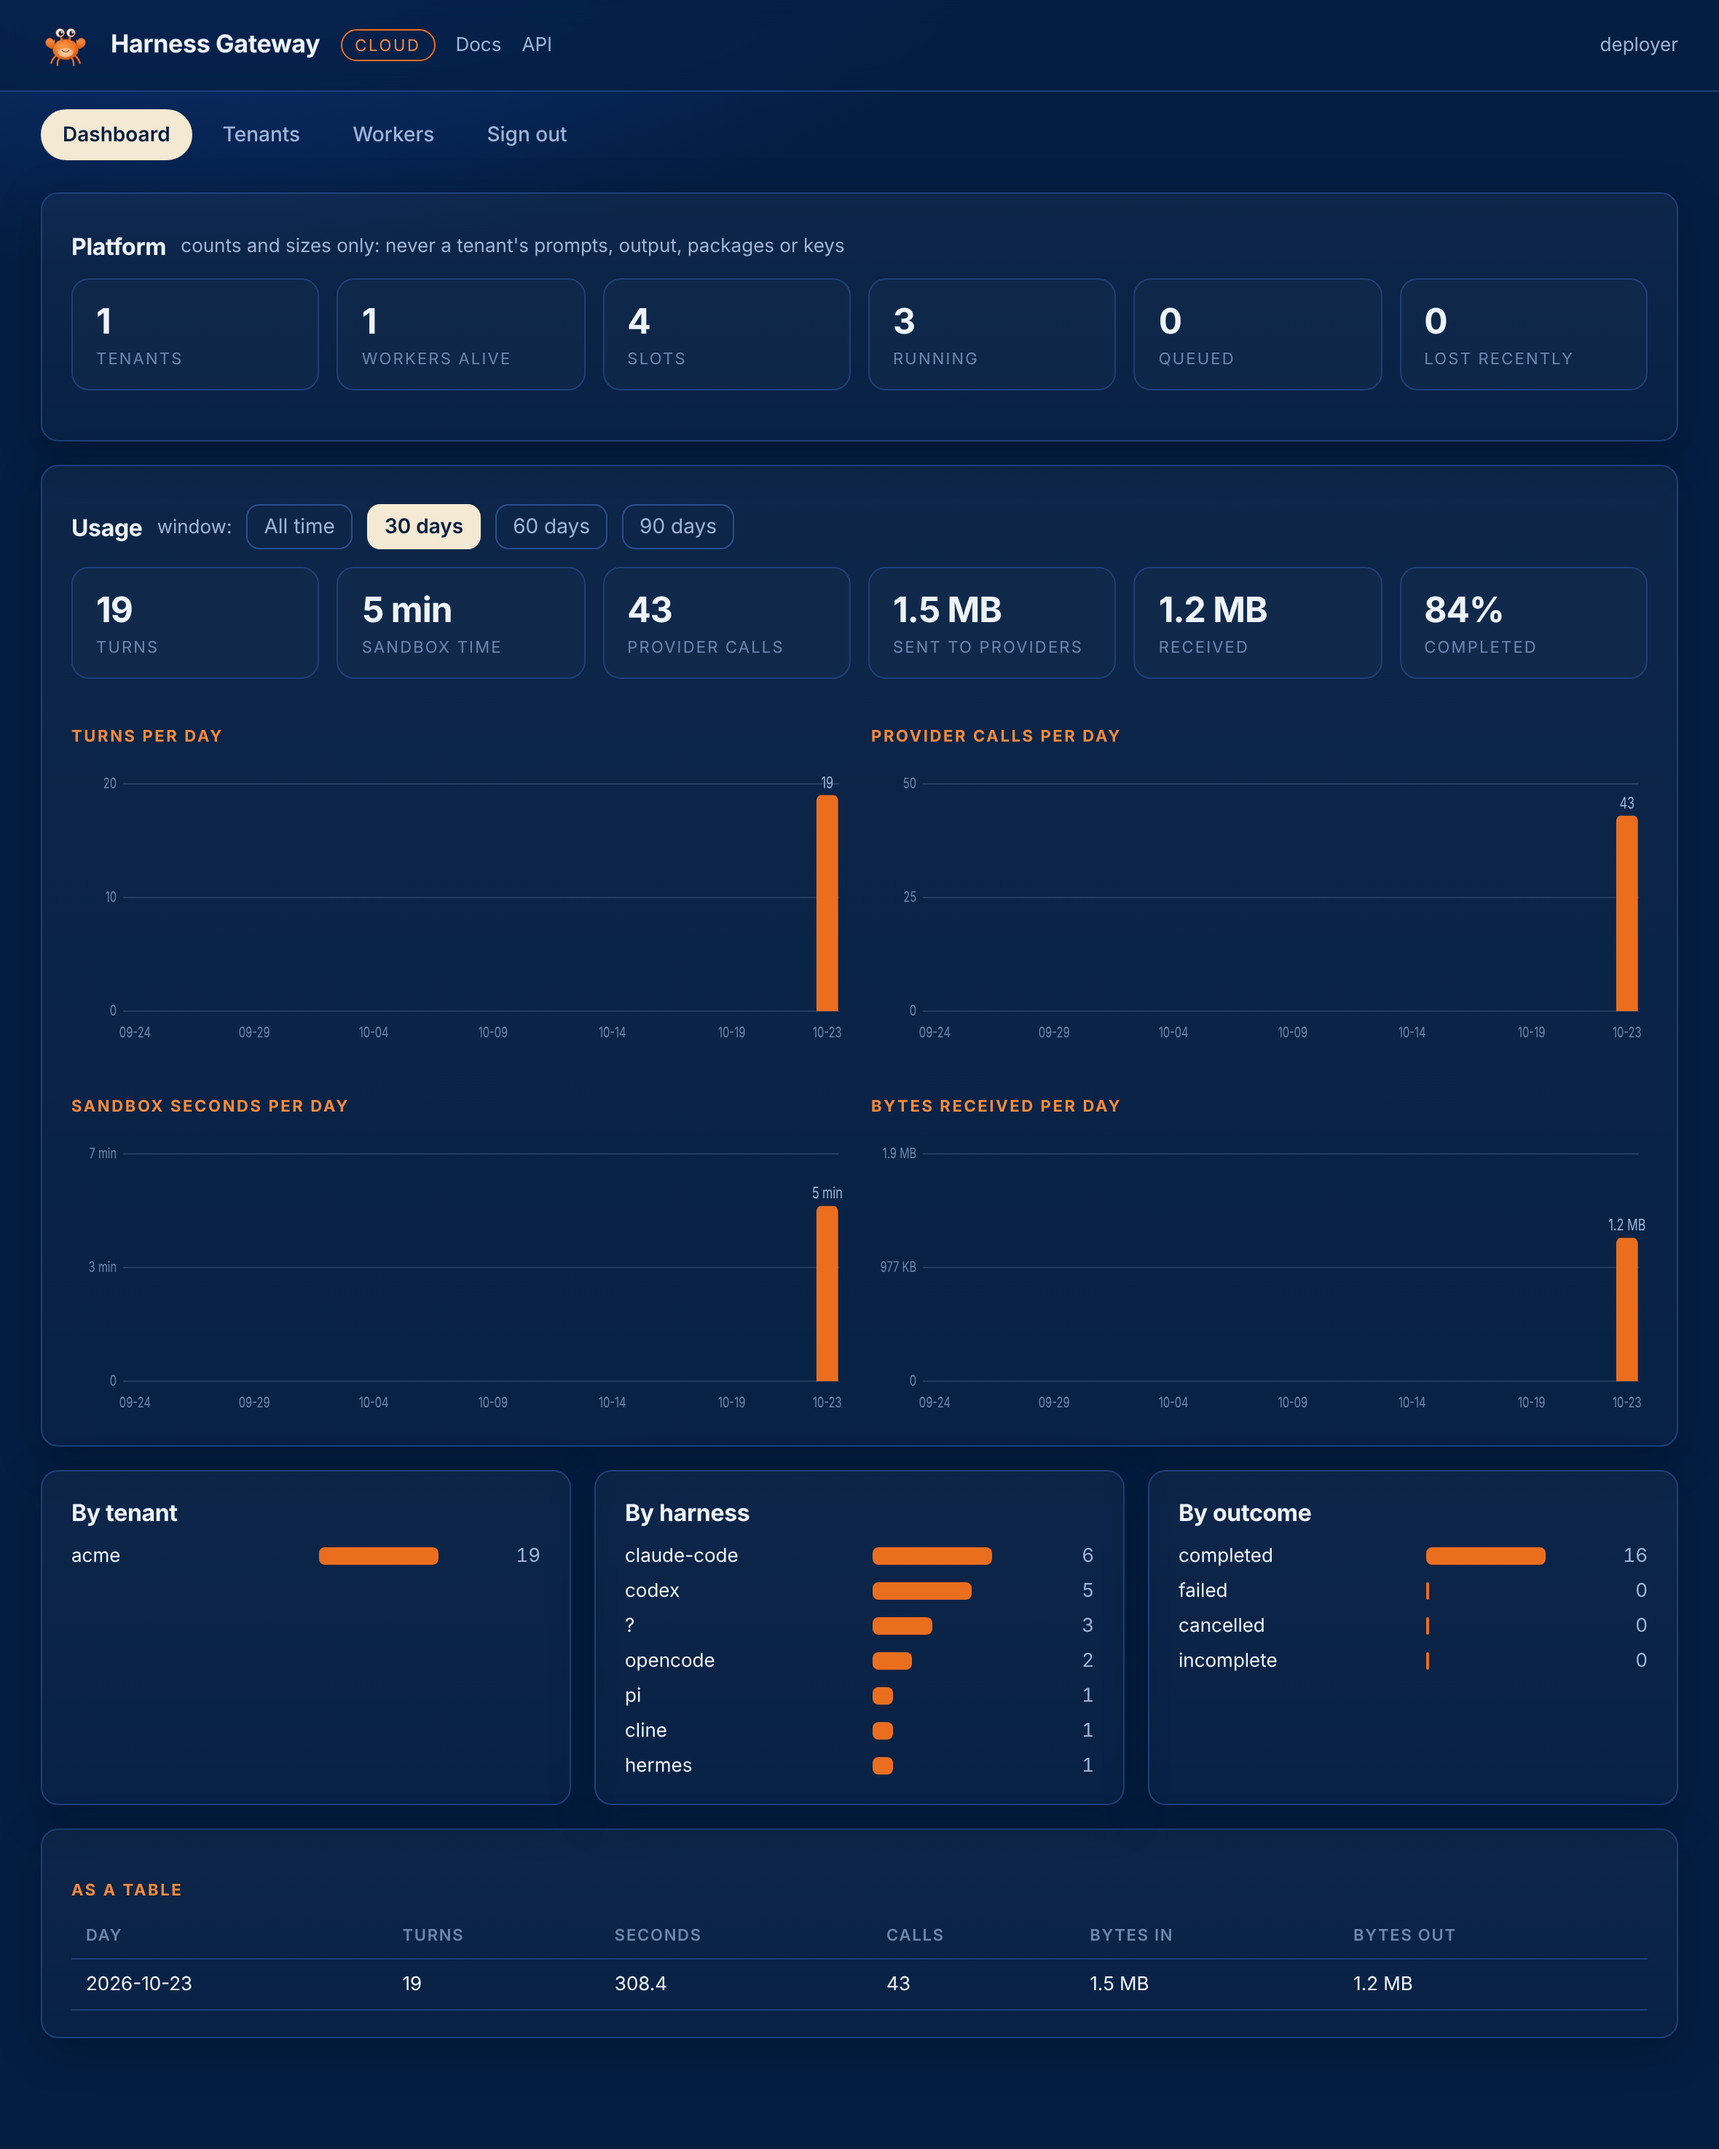
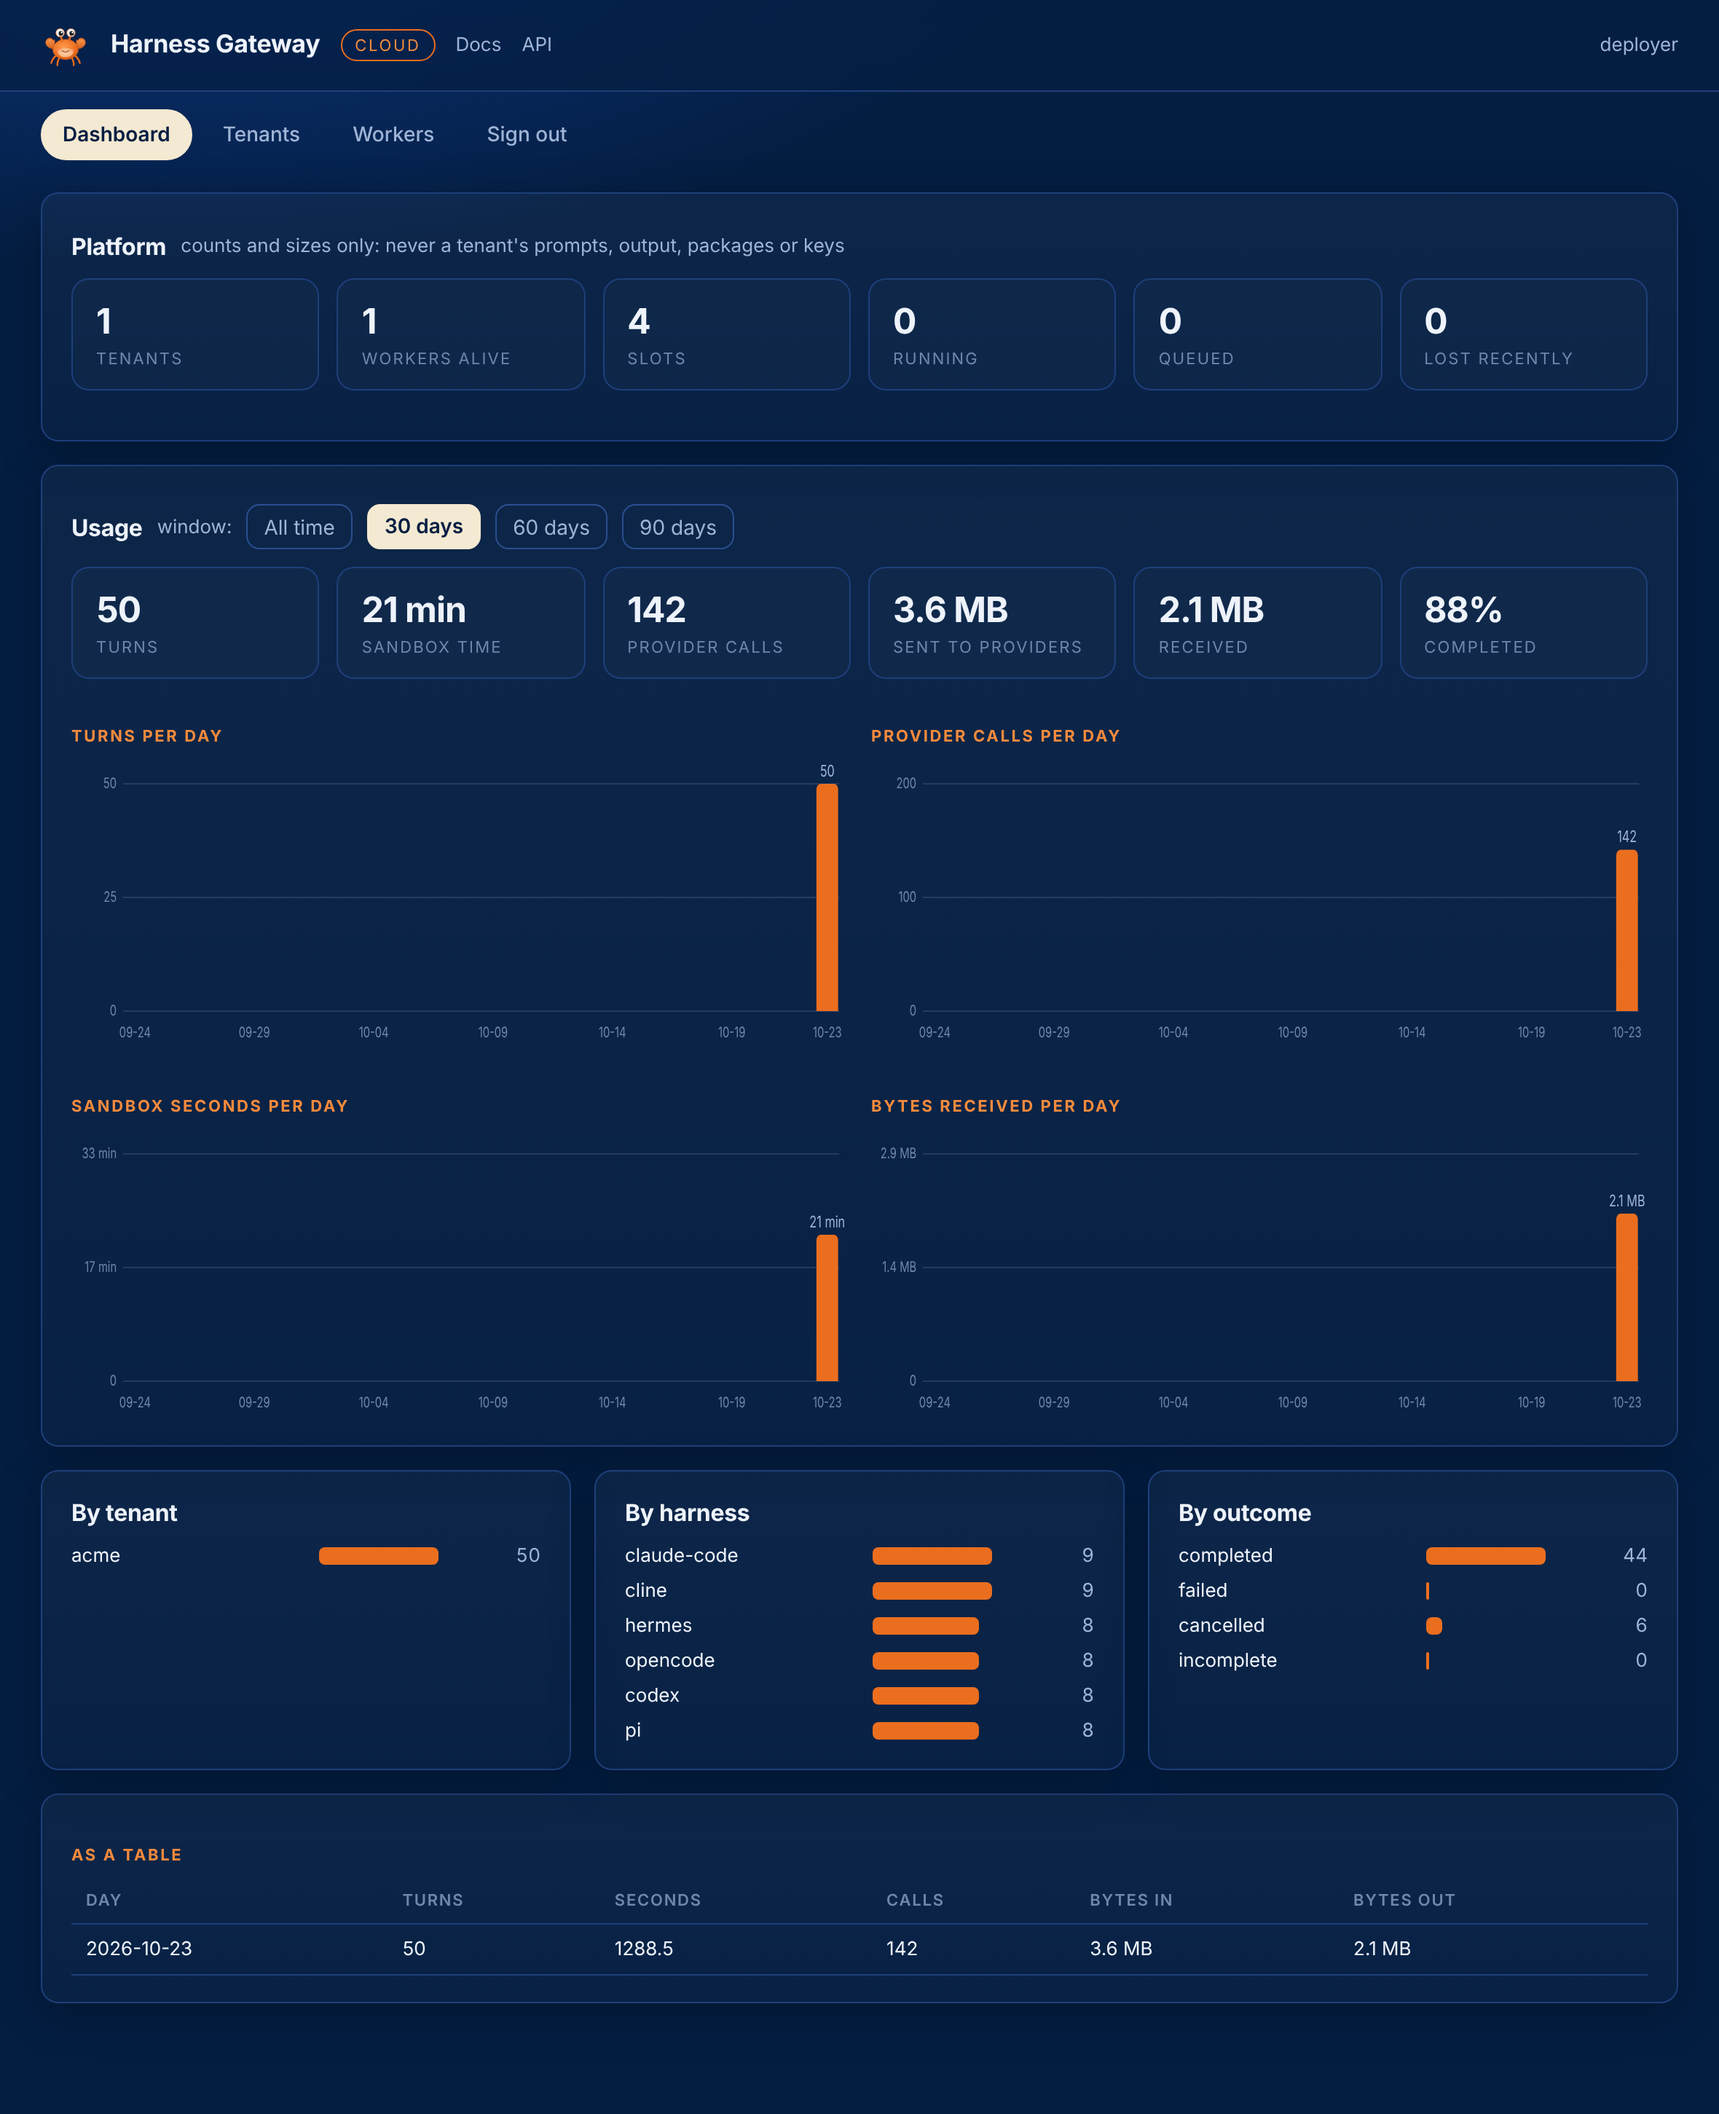
The six demo harnesses verified on contract 5; catalog pages regenerated
Claude-Session: https://claude.ai/code/session_01ERRZXAJHGKJWMvAyf4LasW

diff --git a/docs/catalog/codex.md b/docs/catalog/codex.md
@@ -78,13 +78,13 @@ trap 'steer=$(cat "$HG_DIR/interrupt" 2>/dev/null || true)' USR1
 export CODEX_HOME="$HOME/.codex"
 mkdir -p "$CODEX_HOME"
 cat > "$CODEX_HOME/config.toml" <<EOF
-model_provider = "hi"
+model_provider = "hg"
 model = "$HG_MODEL"
 approval_policy = "never"
 sandbox_mode = "danger-full-access"
 check_for_update_on_startup = false
-[model_providers.hi]
-name = "hi"
+[model_providers.hg]
+name = "hg"
 base_url = "${HG_PROVIDER_URL%/}"
 env_key = "OPENAI_API_KEY"
 wire_api = "responses"
@@ -113,7 +113,7 @@ exit $rc
 
 ## Notes
 
-- Codex reads its provider from `$CODEX_HOME/config.toml`, written every turn: `model_providers.hi` with the gateway's `/v1` base and `env_key = "OPENAI_API_KEY"`, which `provider_env` sets to the session token.
+- Codex reads its provider from `$CODEX_HOME/config.toml`, written every turn: `model_providers.hg` with the gateway's `/v1` base and `env_key = "OPENAI_API_KEY"`, which `provider_env` sets to the session token.
 - `sandbox_mode = "danger-full-access"` and `--skip-git-repo-check`: the container is the sandbox and the workspace need not be a git repository.
 - The three `features` switches stop Codex cloning its plugin repository and discovering models over the network, both of which the door would refuse anyway.
 - The request's model path (`node22/codex/openai-responses/<model>`) picks the model; `gpt-5.4-mini` is the default here.

diff --git a/docs/catalog/grok.md b/docs/catalog/grok.md
@@ -1,6 +1,6 @@
 # Grok Build
 
-Grok Build, headless over `grok -p --output-format streaming-json`, on any provider through a `[model.hi]` entry in `$HOME/.grok/config.toml` whose `env_key` names the variable holding the credential.
+Grok Build, headless over `grok -p --output-format streaming-json`, on any provider through a `[model.hg]` entry in `$HOME/.grok/config.toml` whose `env_key` names the variable holding the credential.
 
 ## Verified
 
@@ -83,16 +83,16 @@ export GROK_FOLDER_TRUST=0 GROK_DISABLE_AUTOUPDATER=1
 mkdir -p "$HOME/.grok"
 cat > "$HOME/.grok/config.toml" <<EOF
 [models]
-session_summary = "hi"
-prompt_suggestion = "hi"
-[model.hi]
+session_summary = "hg"
+prompt_suggestion = "hg"
+[model.hg]
 model = "$HG_MODEL"
 base_url = "${HG_PROVIDER_URL%/}"
 env_key = "OPENAI_API_KEY"
 api_backend = "chat_completions"
 EOF
 turn() {
-  local args=(-p "$1" -m hi --output-format streaming-json --permission-mode bypassPermissions)
+  local args=(-p "$1" -m hg --output-format streaming-json --permission-mode bypassPermissions)
   if [ -f "$HG_DIR/turned" ]; then args+=(--resume "$(sid_uuid)"); else args+=(-s "$(sid_uuid)"); fi
   touch "$HG_DIR/turned"
   grok "${args[@]}"

diff --git a/docs/catalog/zeroclaw.md b/docs/catalog/zeroclaw.md
@@ -1,6 +1,6 @@
 # zeroclaw
 
-zeroclaw, one-shot over `zeroclaw agent -m`, on an OpenAI chat-shaped provider through a `[providers.models.custom.hi]` entry in a config directory the folder writes each turn; the credential travels in the environment variable zeroclaw derives from that key path.
+zeroclaw, one-shot over `zeroclaw agent -m`, on an OpenAI chat-shaped provider through a `[providers.models.custom.hg]` entry in a config directory the folder writes each turn; the credential travels in the environment variable zeroclaw derives from that key path.
 
 ## Verified
 
@@ -85,17 +85,17 @@ trap 'steer=$(cat "$HG_DIR/interrupt" 2>/dev/null || true)' USR1
 mkdir -p "$HG_DIR/zc"
 cat > "$HG_DIR/zc/config.toml" <<EOF
 schema_version = 3
-[providers.models.custom.hi]
+[providers.models.custom.hg]
 uri = "${HG_PROVIDER_URL%/}"
 model = "$HG_MODEL"
 native_tools = true
 [agents.zeroclaw]
 enabled = true
-model_provider = "custom.hi"
-risk_profile = "hi"
+model_provider = "custom.hg"
+risk_profile = "hg"
 [agents.zeroclaw.workspace]
 path = "$HG_WORKSPACE"
-[risk_profiles.hi]
+[risk_profiles.hg]
 level = "full"
 allowed_commands = ["*"]
 block_high_risk_commands = false

diff --git a/docs/catalog/pi.md b/docs/catalog/pi.md
@@ -79,9 +79,9 @@ export PI_OFFLINE=1 PI_TELEMETRY=0 PI_SKIP_VERSION_CHECK=1
 mkdir -p "$HOME/.pi/agent"
 cat > "$HOME/.pi/agent/models.json" <<EOF
 {"providers": {"anthropic": {"baseUrl": "${HG_PROVIDER_URL%/v1}", "apiKey": "\$ANTHROPIC_API_KEY"},
-               "hi": {"baseUrl": "${HG_PROVIDER_URL%/v1}", "api": "anthropic-messages", "apiKey": "\$ANTHROPIC_API_KEY", "models": [{"id": "$HG_MODEL"}]}}}
+               "hg": {"baseUrl": "${HG_PROVIDER_URL%/v1}", "api": "anthropic-messages", "apiKey": "\$ANTHROPIC_API_KEY", "models": [{"id": "$HG_MODEL"}]}}}
 EOF
-turn() { pi -p --mode json --provider hi --model "$HG_MODEL" --session-id "$HG_SESSION" "$1"; }
+turn() { pi -p --mode json --provider hg --model "$HG_MODEL" --session-id "$HG_SESSION" "$1"; }
 
 run_wait turn "$prompt"; rc=$?
 if [ -n "$steer" ]; then run_wait turn "$steer"; rc=$?; fi

diff --git a/docs/catalog/omp.md b/docs/catalog/omp.md
@@ -82,7 +82,7 @@ trap 'steer=$(cat "$HG_DIR/interrupt" 2>/dev/null || true)' USR1
 mkdir -p "$HOME/.omp/agent"
 cat > "$HOME/.omp/agent/models.yml" <<EOF
 providers:
-  hi:
+  hg:
     baseUrl: ${HG_PROVIDER_URL%/v1}
     apiKey: ANTHROPIC_API_KEY
     api: anthropic-messages
@@ -90,7 +90,7 @@ providers:
       - id: $HG_MODEL
 EOF
 turn() {
-  local args=(-p --mode json --approval-mode yolo --model "hi/$HG_MODEL")
+  local args=(-p --mode json --approval-mode yolo --model "hg/$HG_MODEL")
   [ -s "$HG_DIR/session" ] && args+=(--resume "$(cat "$HG_DIR/session")")
   omp "${args[@]}" "$1" </dev/null | tee "$HG_DIR/last.jsonl"
   local rc=${PIPESTATUS[0]}

diff --git a/docs/catalog/minimax-code.md b/docs/catalog/minimax-code.md
@@ -82,12 +82,12 @@ steer=""
 trap 'steer=$(cat "$HG_DIR/interrupt" 2>/dev/null || true)' USR1
 mkdir -p "$HOME/.minimax"
 cat > "$HG_DIR/mcode.yaml" <<EOF
-defaultModel: custom_provider:hi/$HG_MODEL
+defaultModel: custom_provider:hg/$HG_MODEL
 permissionMode: "off"
 dataContribution:
   enabled: false
 custom_provider:
-  hi:
+  hg:
     kind: custom
     enabled: true
     api: anthropic-messages
